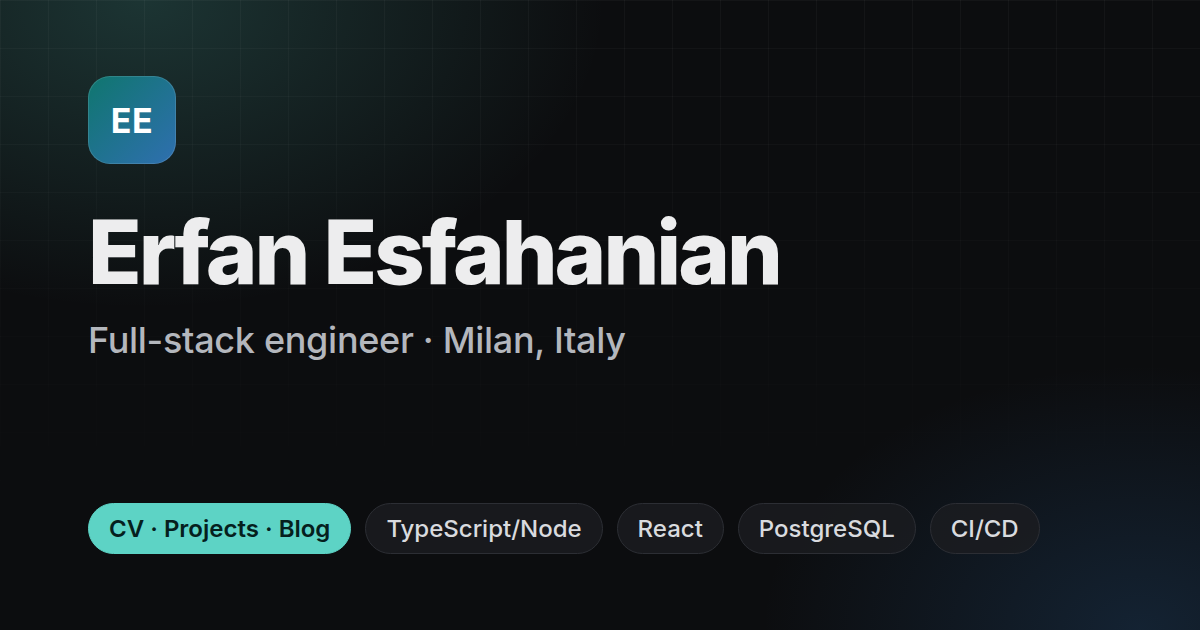
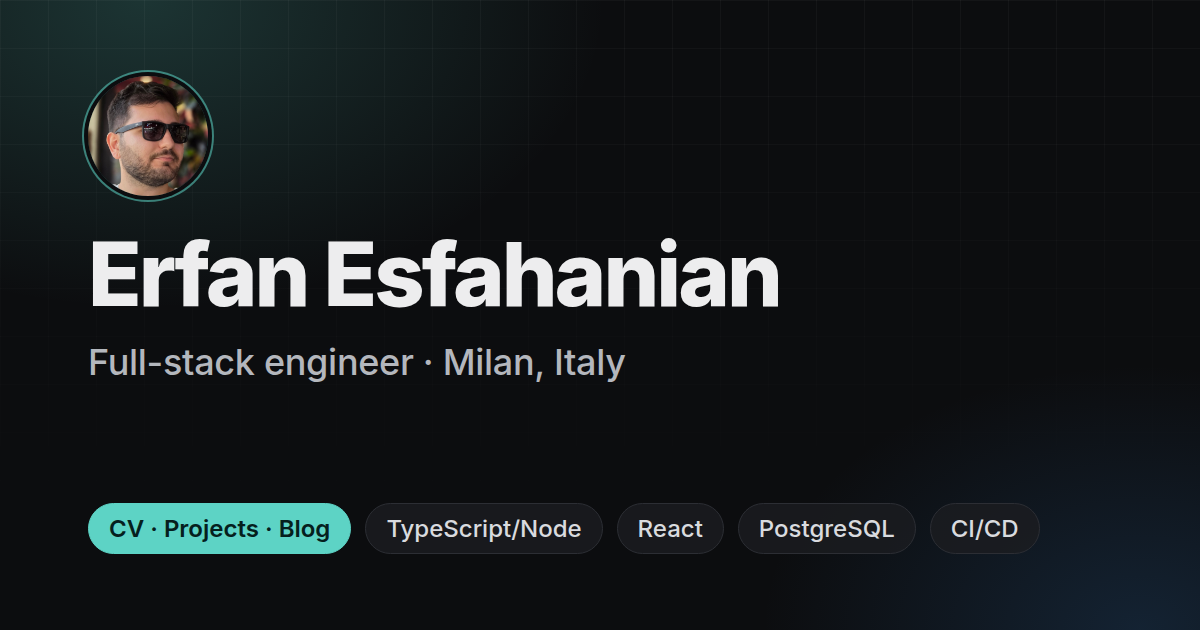
Add photo, restructure experience, add GitHub projects
- Profile photo on the home page and in the link-preview image (cropped
  to a square, metadata stripped)
- Experience: main roles first (MotorK, Wormpost, Zistel, Iranian
  Khodro, Meghyas) with the duplicate entries merged per company;
  freelance, contract and part-time roles moved to "Other experience"
  on the CV
- More technical MotorK and Wormpost descriptions (PHP/Python, Redis,
  Kafka, load balancing, Grafana); Iranian Khodro is now full-stack
  (Angular with C# and Go); Meghyas notes the 10,000-user design
- Projects: Quaderno, Kelid and macsmartcleaner from GitHub, featured
  on the home page with source links; project roles match the CV
- Blog: remove the sample post and show "No posts yet"

Claude-Session: https://claude.ai/code/session_01X68djmGMHpRVASjadrZZFL

Changed region(s): [[0.0617, 0.0905, 0.6475, 0.6032]]

diff --git a/src/data/cv.ts b/src/data/cv.ts
@@ -1,5 +1,5 @@
-// Your CV as data. The home page shows the most recent roles and the /cv/ page shows everything.
-// Newest first: the order here is the order on the site.
+// Your CV as data. The home page shows the main roles and the /cv/ page shows everything.
+// Newest first within each list: the order here is the order on the site.
 
 export interface Role {
   title: string;
@@ -24,10 +24,11 @@ export interface Degree {
 }
 
 export const PROFILE = [
-  'Software engineer with production experience since 2019, currently a back-end engineer at MotorK in Milan. Much of my work has been TypeScript and Node.js on the server with React or React Native on the client, backed by PostgreSQL, MongoDB and Redis.',
-  'I have built and owned internal platform tooling (scraping and RPA pipelines, CI/CD, Grafana dashboards and alerting) and I am comfortable being the engineer other teams depend on rather than the one shipping the front page. MSc in Computer Science, Università degli Studi di Milano, completed July 2026.',
+  'Software engineer with production experience since 2019, currently a back-end engineer at MotorK in Milan working in Python and PHP. Much of my work has been TypeScript and Node.js on the server with React or React Native on the client, backed by PostgreSQL, MongoDB and Redis.',
+  'I design systems for load, with queues, caches and load balancers (Kafka, RabbitMQ, Redis), and I have built and owned internal platform tooling: scraping and RPA pipelines, CI/CD, Grafana dashboards and alerting. I am comfortable being the engineer other teams depend on rather than the one shipping the front page. MSc in Computer Science, Università degli Studi di Milano, completed July 2026.',
 ];
 
+/** Main roles, shown on the home page and first on the CV. */
 export const EXPERIENCE: Role[] = [
   {
     title: 'Software Engineer',
@@ -38,12 +39,68 @@ export const EXPERIENCE: Role[] = [
     start: 'Jul 2025',
     end: 'Present',
     highlights: [
-      "Back-end engineer on Leadspark, MotorK's automotive lead-management product: PHP and Python services behind CRM integrations for European dealer groups.",
-      'Build and operate the integration layer that pushes and reconciles leads with third-party dealer CRMs, handling partial failures, retries and idempotent replays.',
-      'Own the web-scraping and RPA automation stack (Playwright, Robocorp) that extracts, cleans and normalises listing and dealer data at scale.',
-      'Run services on Kubernetes and AWS; instrument them with Grafana dashboards and alerting, and take part in production triage.',
+      "Back-end engineer on Leadspark, MotorK's automotive lead-management product, building the PHP and Python services behind its CRM integrations for European dealer groups.",
+      'Build and operate the integration layer that pushes and reconciles leads with third-party dealer CRMs through their APIs, handling partial failures, retries and idempotent replays.',
+      'Use Redis for caching and shared state between the PHP and Python services, keeping the integration and scraping workloads fast under load.',
+      'Own the Python web-scraping and RPA automation stack (Playwright, Robocorp) that extracts, cleans and normalises listing and dealer data at scale.',
+      'Run containerised services on Kubernetes and AWS, monitor them with Grafana dashboards and alerts, and take part in production triage.',
     ],
   },
+  {
+    title: 'System Architect & Back-end Developer',
+    org: 'Wormpost',
+    location: 'New York, United States',
+    mode: 'Remote',
+    start: 'Oct 2024',
+    end: 'Jun 2025',
+    highlights: [
+      'Designed the system architecture and built the back end of an AI customer-service product, splitting the platform into microservices behind a Kong API gateway.',
+      'Balanced the load across services with load balancers, Kafka for event streaming and queueing, Redis for caching and rate limiting, and PostgreSQL and MongoDB as the databases.',
+      'Wrote services in Go, Express.js and Django, and built the AI agent pipeline that handled customer conversations, including retrieval and tool-calling paths.',
+      'Extended the architecture to Worm, a second product line on the same gateway and event-streaming layer, and documented the integration contracts for downstream teams.',
+    ],
+  },
+  {
+    title: 'System Designer & Full-stack Developer',
+    org: 'Zistel (Zist Pardazesh Nasir)',
+    location: 'Tehran, Iran',
+    start: 'Jan 2021',
+    end: 'Jun 2023',
+    highlights: [
+      'Designed the system architecture for a subscription telecardiology service and built its back end in Go and Express.js.',
+      "Ingested readings from the company's heart-analysis device, ran the research team's formulas over them and routed the results to a cardiologist, cutting the manual review load per patient.",
+      'Full-stack work on the ECG analysis platform: Express.js services on PostgreSQL with Angular and Vue front ends, including clinician-facing review tooling with role-based access to patient records.',
+      'Used RabbitMQ for asynchronous processing and MongoDB for storage, and built the scheduling flow for follow-up calls, meetings and chat.',
+    ],
+  },
+  {
+    title: 'Full-stack Developer',
+    org: 'Iranian Khodro',
+    location: 'Tehran, Iran',
+    start: 'Mar 2019',
+    end: 'Apr 2023',
+    highlights: [
+      'Full-stack development on internal applications for a large car manufacturer: Angular front ends backed by C# and Go services.',
+      'Built the Angular (Nebular) employee application for Modiran Khodro, covering task management, assignment and insurance-policy integration, plus workflow screens used daily by operational staff.',
+      'Implemented the used-car trade-in flow with instalment payment options, coordinated across several back-end services.',
+    ],
+  },
+  {
+    title: 'System Architect & Back-end Engineer',
+    org: 'Meghyas (Rasad Bazar)',
+    location: 'Tehran, Iran',
+    start: 'Feb 2019',
+    end: 'May 2021',
+    highlights: [
+      'Designed the architecture and built the back end of a stock-market analysis platform for the Tehran exchange that turned Telegram signal channels into buy/sell recommendations, designed to handle 10,000 users at the same time.',
+      'Ran a fleet of Telegram bots that recorded every message and forwarded it to a sentiment-analysis service, which scored each stock.',
+      "Used Kong as the API gateway with RabbitMQ, Kafka and Redis for message flow and caching, and maintained the ingestion and API layers of the company's market-data services.",
+    ],
+  },
+];
+
+/** Freelance, contract, side and part-time work, shown after the main roles on the CV. */
+export const OTHER_EXPERIENCE: Role[] = [
   {
     title: 'Full Stack Engineer',
     org: 'GetSpoused dating app',
@@ -56,32 +113,6 @@ export const EXPERIENCE: Role[] = [
       'Sole engineer on a production dating app, delivered end to end: React Native clients for iOS and Android plus a React marketing site.',
       'Built the Express.js back end on MongoDB with Redis caching and RabbitMQ for matching, notifications and media processing.',
       'Designed the matching and messaging data model and shipped the whole product on roughly 20 hours a week.',
-    ],
-  },
-  {
-    title: 'Software Engineer',
-    org: 'Wormpost',
-    location: 'New York, United States',
-    mode: 'Remote',
-    start: 'Oct 2024',
-    end: 'Apr 2025',
-    highlights: [
-      'System architecture and back end for an AI customer-service product: decomposed the platform into microservices behind a Kong API gateway.',
-      'Wrote services in Go, Express.js and Django; used Kafka for event streaming, Redis for caching and rate limiting, PostgreSQL and MongoDB for storage.',
-      'Built the AI agent pipeline that handled customer conversations, including retrieval and tool-calling paths.',
-    ],
-  },
-  {
-    title: 'Software Engineer',
-    org: 'Worm',
-    note: 'Part-time',
-    location: 'New York, United States',
-    mode: 'Remote',
-    start: 'Dec 2024',
-    end: 'Mar 2025',
-    highlights: [
-      "Extended the Wormpost platform's service architecture for a second product line, reusing the gateway and event-streaming layer.",
-      'Implemented back-end services and internal APIs, and documented the integration contracts for downstream teams.',
     ],
   },
   {
@@ -138,66 +169,6 @@ export const EXPERIENCE: Role[] = [
     ],
   },
   {
-    title: 'Full-stack Developer',
-    org: 'Zistel',
-    note: 'Full-time',
-    location: 'Tehran, Iran',
-    start: 'Jul 2022',
-    end: 'Jun 2023',
-    highlights: [
-      'Full-stack work on an ECG analysis platform: Express.js services on PostgreSQL, with Angular and Vue front ends.',
-      'Built clinician-facing review tooling and the APIs behind it, including role-based access to patient records.',
-    ],
-  },
-  {
-    title: 'Frontend Developer',
-    org: 'Iranian Khodro',
-    note: 'Full-time',
-    location: 'Tehran, Iran',
-    mode: 'Remote',
-    start: 'May 2021',
-    end: 'Apr 2023',
-    highlights: [
-      'Front-end development on internal applications for a large car manufacturer, in Angular.',
-      'Built task-management and workflow screens used daily by operational staff.',
-    ],
-  },
-  {
-    title: 'Back End Developer & System Designer',
-    org: 'Zist Pardazesh Nasir',
-    location: 'Tehran, Iran',
-    start: 'Jan 2021',
-    end: 'Dec 2022',
-    highlights: [
-      'Designed the system architecture for a subscription telecardiology service and implemented its back end in Go and Express.js.',
-      "Ingested readings from the company's heart-analysis device, ran the research team's formulas over them, and routed the results to a cardiologist, cutting the manual review load per patient.",
-      'Used RabbitMQ for asynchronous processing and MongoDB for storage; built the scheduling flow for follow-up calls, meetings and chat.',
-    ],
-  },
-  {
-    title: 'Frontend Developer',
-    org: 'Iranian Khodro (Modiran Khodro)',
-    location: 'Tehran, Iran',
-    start: 'Mar 2019',
-    end: 'Jul 2021',
-    highlights: [
-      'Built the Angular (Nebular) front end of an employee application covering task management, assignment and insurance-policy integration.',
-      'Implemented the used-car trade-in flow with instalment payment options, coordinated across several back-end services.',
-    ],
-  },
-  {
-    title: 'Back End Developer',
-    org: 'Meghyas',
-    note: 'Part-time',
-    location: 'Tehran, Iran',
-    start: 'Dec 2020',
-    end: 'May 2021',
-    highlights: [
-      "Back-end development and maintenance on the company's market-data services.",
-      'Worked on ingestion and API layers used by the client applications.',
-    ],
-  },
-  {
     title: 'Developer',
     org: 'Kian Tejarat Sharif Co.',
     note: 'Part-time',
@@ -207,18 +178,6 @@ export const EXPERIENCE: Role[] = [
     highlights: [
       'Built and maintained internal web tooling for a trading business.',
       'Handled data integration between internal systems and external providers.',
-    ],
-  },
-  {
-    title: 'Software Engineer',
-    org: 'Meghyas (Rasad Bazar)',
-    location: 'Tehran, Iran',
-    start: 'Feb 2019',
-    end: 'Dec 2019',
-    highlights: [
-      'Built a stock-market analysis platform for the Tehran exchange that turned Telegram signal channels into buy/sell recommendations.',
-      'Ran a fleet of Telegram bots that recorded every message and forwarded it to a sentiment-analysis service, which scored each stock.',
-      'Used Kong as the API gateway with RabbitMQ, Kafka and Redis for message flow and caching.',
     ],
   },
 ];

diff --git a/src/data/site.ts b/src/data/site.ts
@@ -22,10 +22,10 @@ export const SITE = {
   current: 'Software Engineer at MotorK',
   email: 'es.erfan95@gmail.com',
   /**
-   * Optional profile photo. Put a square image (at least 256×256) in /public
-   * and set its path here, e.g. '/avatar.jpg'. When empty, your initials are shown.
+   * Profile photo: a square image (at least 256×256) in /public.
+   * Set it to '' to show your initials instead.
    */
-  avatar: '',
+  avatar: '/avatar.jpg',
 };
 
 export const SOCIALS: SocialLink[] = [

diff --git a/src/content/projects/ai-customer-service-platform.md b/src/content/projects/ai-customer-service-platform.md
@@ -1,14 +1,14 @@
 ---
 title: AI customer-service platform
-summary: System architecture and back end for Wormpost's AI customer-service product, including the agent pipeline that handles customer conversations.
+summary: System architecture and back end for Wormpost's AI customer-service product, from the load-balanced microservices to the agent pipeline that handles customer conversations.
 kind: work
 period: 2024 – 2025
-date: 2025-04-01
-role: Software Engineer · Wormpost
-tags: [Go, Django, Express.js, Kafka, Kong, AI agents]
+date: 2025-06-01
+role: System Architect & Back-end Developer · Wormpost
+tags: [Go, Django, Express.js, Kafka, Redis, Kong, AI agents]
 highlights:
-  - Decomposed the platform into microservices behind a Kong API gateway.
-  - Built the AI agent pipeline, including retrieval and tool-calling paths.
-  - Used Kafka for event streaming, Redis for caching and rate limiting, and PostgreSQL and MongoDB for storage.
+  - Split the platform into microservices behind a Kong API gateway, with load balancers in front of them.
+  - Used Kafka for event streaming and queueing, Redis for caching and rate limiting, and PostgreSQL and MongoDB as the databases.
+  - Built the AI agent pipeline, including retrieval and tool-calling paths, and extended the architecture to a second product line.
 featured: true
 ---

diff --git a/src/content/projects/quaderno.md b/src/content/projects/quaderno.md
@@ -1,0 +1,18 @@
+---
+title: Quaderno
+summary: A self-hostable study notebook for language learners. Class handouts in any format become annotatable PDFs, you can write your own pages between them, and it shows how many hours you really studied.
+kind: personal
+period: 2026
+date: 2026-09-12
+role: Personal project · open source (MIT)
+tags: [Next.js, TypeScript, PostgreSQL, Prisma, PWA, Docker]
+highlights:
+  - Converts PDFs, Word files, slide decks and images to PDF on upload, with OCR for scanned handouts, and always keeps the original file byte-identical.
+  - An annotation layer with highlights, a freehand pen with pressure and palm rejection, threaded comments and your own note pages inserted anywhere, exported as flattened or layered PDFs.
+  - Study tracking with a live timer, weekly goals, charts, a year heatmap and streaks, plus SM-2 spaced-repetition vocabulary review with Anki export.
+  - An installable, offline-tolerant PWA built to run on a €5/month VPS, with a separate worker for conversion and OCR and PostgreSQL doubling as the job queue.
+links:
+  - label: Source code
+    url: https://github.com/erfanesfahanian1378/quaderno
+featured: true
+---

diff --git a/src/content/projects/kelid.md b/src/content/projects/kelid.md
@@ -1,0 +1,18 @@
+---
+title: Kelid (کلید)
+summary: A custom iPhone keyboard with a clipboard manager, live resizing and Persian word prediction that learns from you, running entirely on the device with no network access.
+kind: personal
+period: 2026
+date: 2026-09-27
+role: Personal project · in development
+tags: [Swift, SwiftUI, iOS, SQLite, Python, DuckDB]
+highlights:
+  - Clipboard history with pinning, search, snippets and text expansion, sensitive-content filtering and a Face ID lock.
+  - Live drag-to-resize, one-handed mode and separate size profiles for portrait and landscape.
+  - Its own memory-mapped language model (a trie plus n-gram tables, Stupid Backoff scoring and a typo model that knows Persian homophones), blended with a personal model that learns on the device.
+  - A Python and DuckDB pipeline that builds the Persian and English n-gram data from Wikipedia and word-frequency lists.
+links:
+  - label: Source code
+    url: https://github.com/erfanesfahanian1378/kelid
+featured: true
+---

diff --git a/src/content/projects/macsmartcleaner.md b/src/content/projects/macsmartcleaner.md
@@ -1,0 +1,18 @@
+---
+title: macsmartcleaner
+summary: A free, open-source terminal app that shows what is filling up macOS "System Data" and cleans it safely, with an animated interface and no dependencies.
+kind: personal
+period: 2026
+date: 2026-09-26
+role: Personal project · open source (MIT)
+tags: [Python, curses, macOS, CLI]
+highlights:
+  - Smart Clean clears caches and junk but skips the apps you have open, and Deep Scan checks 92 known junk sources plus anything unusually large.
+  - Space Lens, an uninstaller that removes app leftovers, startup-item management, one-key optimisations and a live CPU, GPU, memory and disk dashboard.
+  - 'Safe by design: personal data and system folders are hard-blocked, everything asks first and removals go to the Trash. No telemetry.'
+  - Auto-Protect installs an hourly LaunchDaemon that keeps the Spotlight index and free disk space in check.
+links:
+  - label: Source code
+    url: https://github.com/erfanesfahanian1378/macsmartcleaner
+featured: true
+---

diff --git a/src/content/projects/rasad-bazar.md b/src/content/projects/rasad-bazar.md
@@ -2,11 +2,12 @@
 title: Rasad Bazar
 summary: A stock-market analysis platform for the Tehran exchange that turned Telegram signal channels into buy and sell recommendations.
 kind: work
-period: 2019
-date: 2019-12-01
-role: Software Engineer · Meghyas
+period: 2019 – 2021
+date: 2021-05-01
+role: System Architect & Back-end Engineer · Meghyas
 tags: [Telegram bots, Sentiment analysis, Kafka, RabbitMQ, Kong]
 highlights:
+  - Designed the architecture to handle 10,000 users at the same time.
   - Ran a fleet of Telegram bots that recorded every message and forwarded it to a sentiment-analysis service, which scored each stock.
   - Used Kong as the API gateway, with RabbitMQ, Kafka and Redis for message flow and caching.
 ---

diff --git a/src/content/projects/telecardiology-platform.md b/src/content/projects/telecardiology-platform.md
@@ -4,7 +4,7 @@ summary: System architecture and back end for a subscription telecardiology serv
 kind: work
 period: 2021 – 2022
 date: 2022-12-01
-role: Back End Developer & System Designer · Zist Pardazesh Nasir
+role: System Designer & Full-stack Developer · Zistel
 tags: [Go, Express.js, RabbitMQ, MongoDB, Healthcare]
 highlights:
   - Cut the manual review load per patient by automating the path from device reading to cardiologist.

diff --git a/src/content/projects/english-bot.md b/src/content/projects/english-bot.md
@@ -10,5 +10,5 @@ highlights:
   - Self-hosted a 14B model on Ollama instead of paying per token for OpenAI, cutting inference cost to infrastructure cost.
   - Wrote the matching engine in C++ for throughput and connected it to the rest of the system through API gateways in a microservice layout.
   - Used Redis and Kafka for load balancing and queueing across the conversation and matching services.
-featured: true
+featured: false
 ---

diff --git a/src/content/projects/ecg-analysis-platform.md b/src/content/projects/ecg-analysis-platform.md
@@ -4,7 +4,7 @@ summary: Full-stack work on an ECG analysis platform, with Express.js services o
 kind: work
 period: 2022 – 2023
 date: 2023-06-01
-role: Full-stack Developer · Zistel
+role: System Designer & Full-stack Developer · Zistel
 tags: [Express.js, PostgreSQL, Angular, Vue, Healthcare]
 highlights:
   - Built clinician-facing review tooling and the APIs behind it, including role-based access to patient records.

diff --git a/src/content/projects/solana-wallet-analytics.md b/src/content/projects/solana-wallet-analytics.md
@@ -9,5 +9,5 @@ tags: [Kubernetes, Crawling, Rate limiting, Solana]
 highlights:
   - Worked around strict third-party API rate limits by sharding the workload across 40+ parallel workers on Kubernetes, with back-off and checkpointing.
   - Persisted and de-duplicated results so repeated runs were incremental rather than full re-crawls.
-featured: true
+featured: false
 ---

diff --git a/src/content/projects/getspoused.md b/src/content/projects/getspoused.md
@@ -10,5 +10,5 @@ highlights:
   - Built the back end on MongoDB with Redis caching and RabbitMQ for matching, notifications and media processing.
   - Designed the matching and messaging data model.
   - Shipped the whole product on roughly 20 hours a week.
-featured: true
+featured: false
 ---
